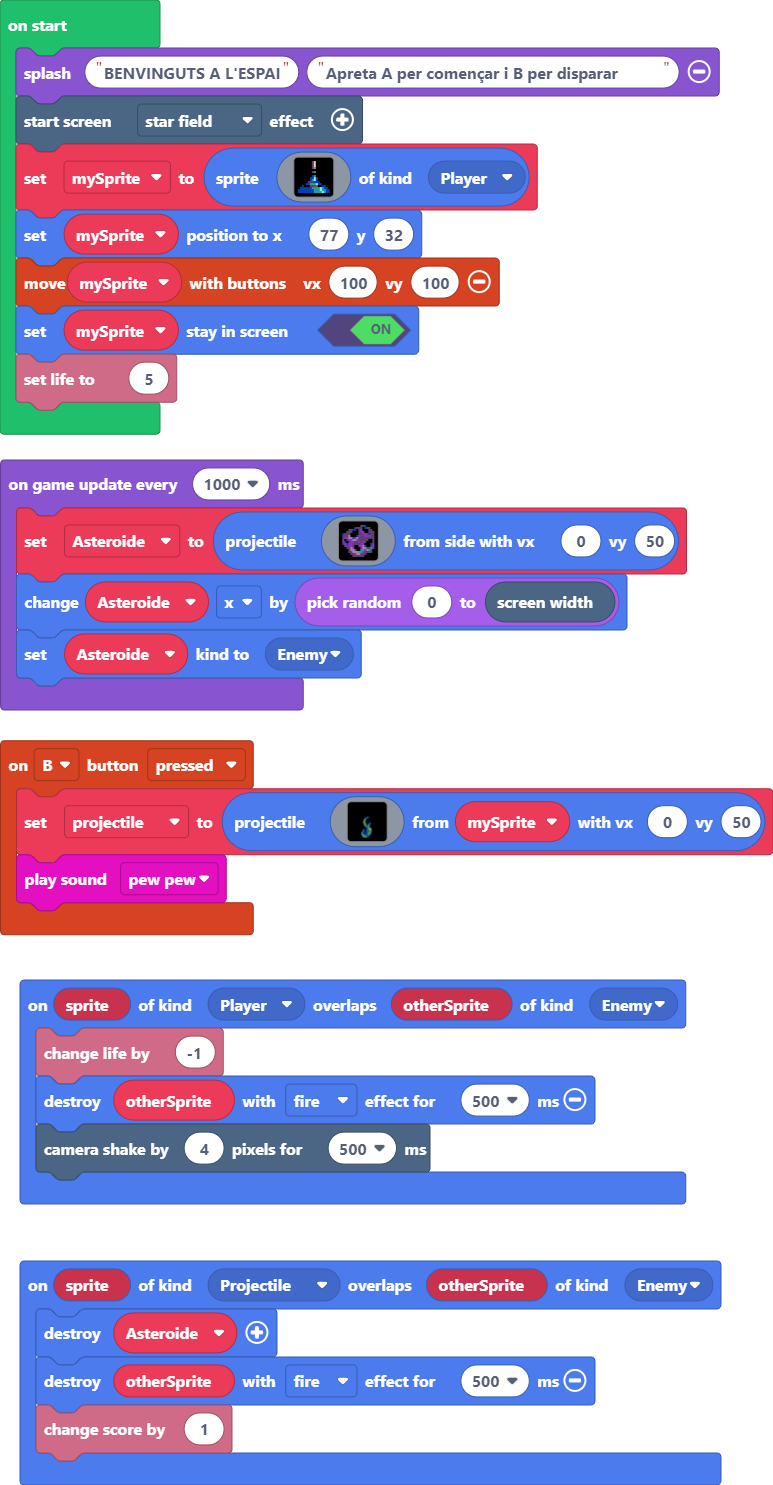
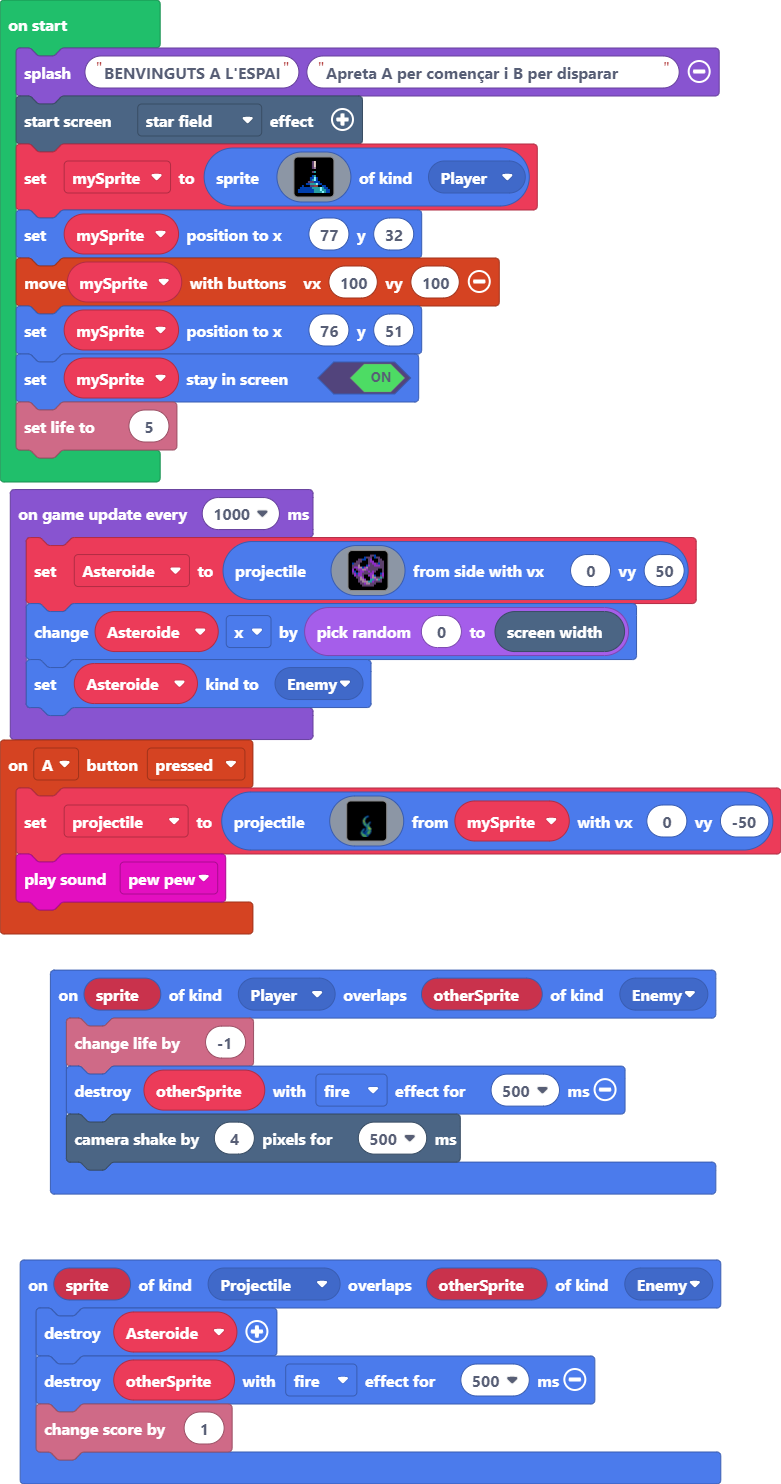
Update main.blocks, main.ts

diff --git a/main.ts b/main.ts
@@ -1,4 +1,4 @@
-controller.B.onEvent(ControllerButtonEvent.Pressed, function () {
+controller.A.onEvent(ControllerButtonEvent.Pressed, function () {
     projectile = sprites.createProjectileFromSprite(img`
         ................
         ................
@@ -48,7 +48,7 @@ controller.B.onEvent(ControllerButtonEvent.Pressed, function () {
         .87766778868....
         ..877667688.....
         ...86767788.....
-        `, mySprite, 0, 50)
+        `, mySprite, 0, -50)
     music.pewPew.play()
 })
 sprites.onOverlap(SpriteKind.Projectile, SpriteKind.Enemy, function (sprite, otherSprite) {
@@ -86,6 +86,7 @@ mySprite = sprites.create(img`
     `, SpriteKind.Player)
 mySprite.setPosition(77, 32)
 controller.moveSprite(mySprite, 100, 100)
+mySprite.setPosition(76, 51)
 mySprite.setStayInScreen(true)
 info.setLife(5)
 game.onUpdateInterval(1000, function () {
